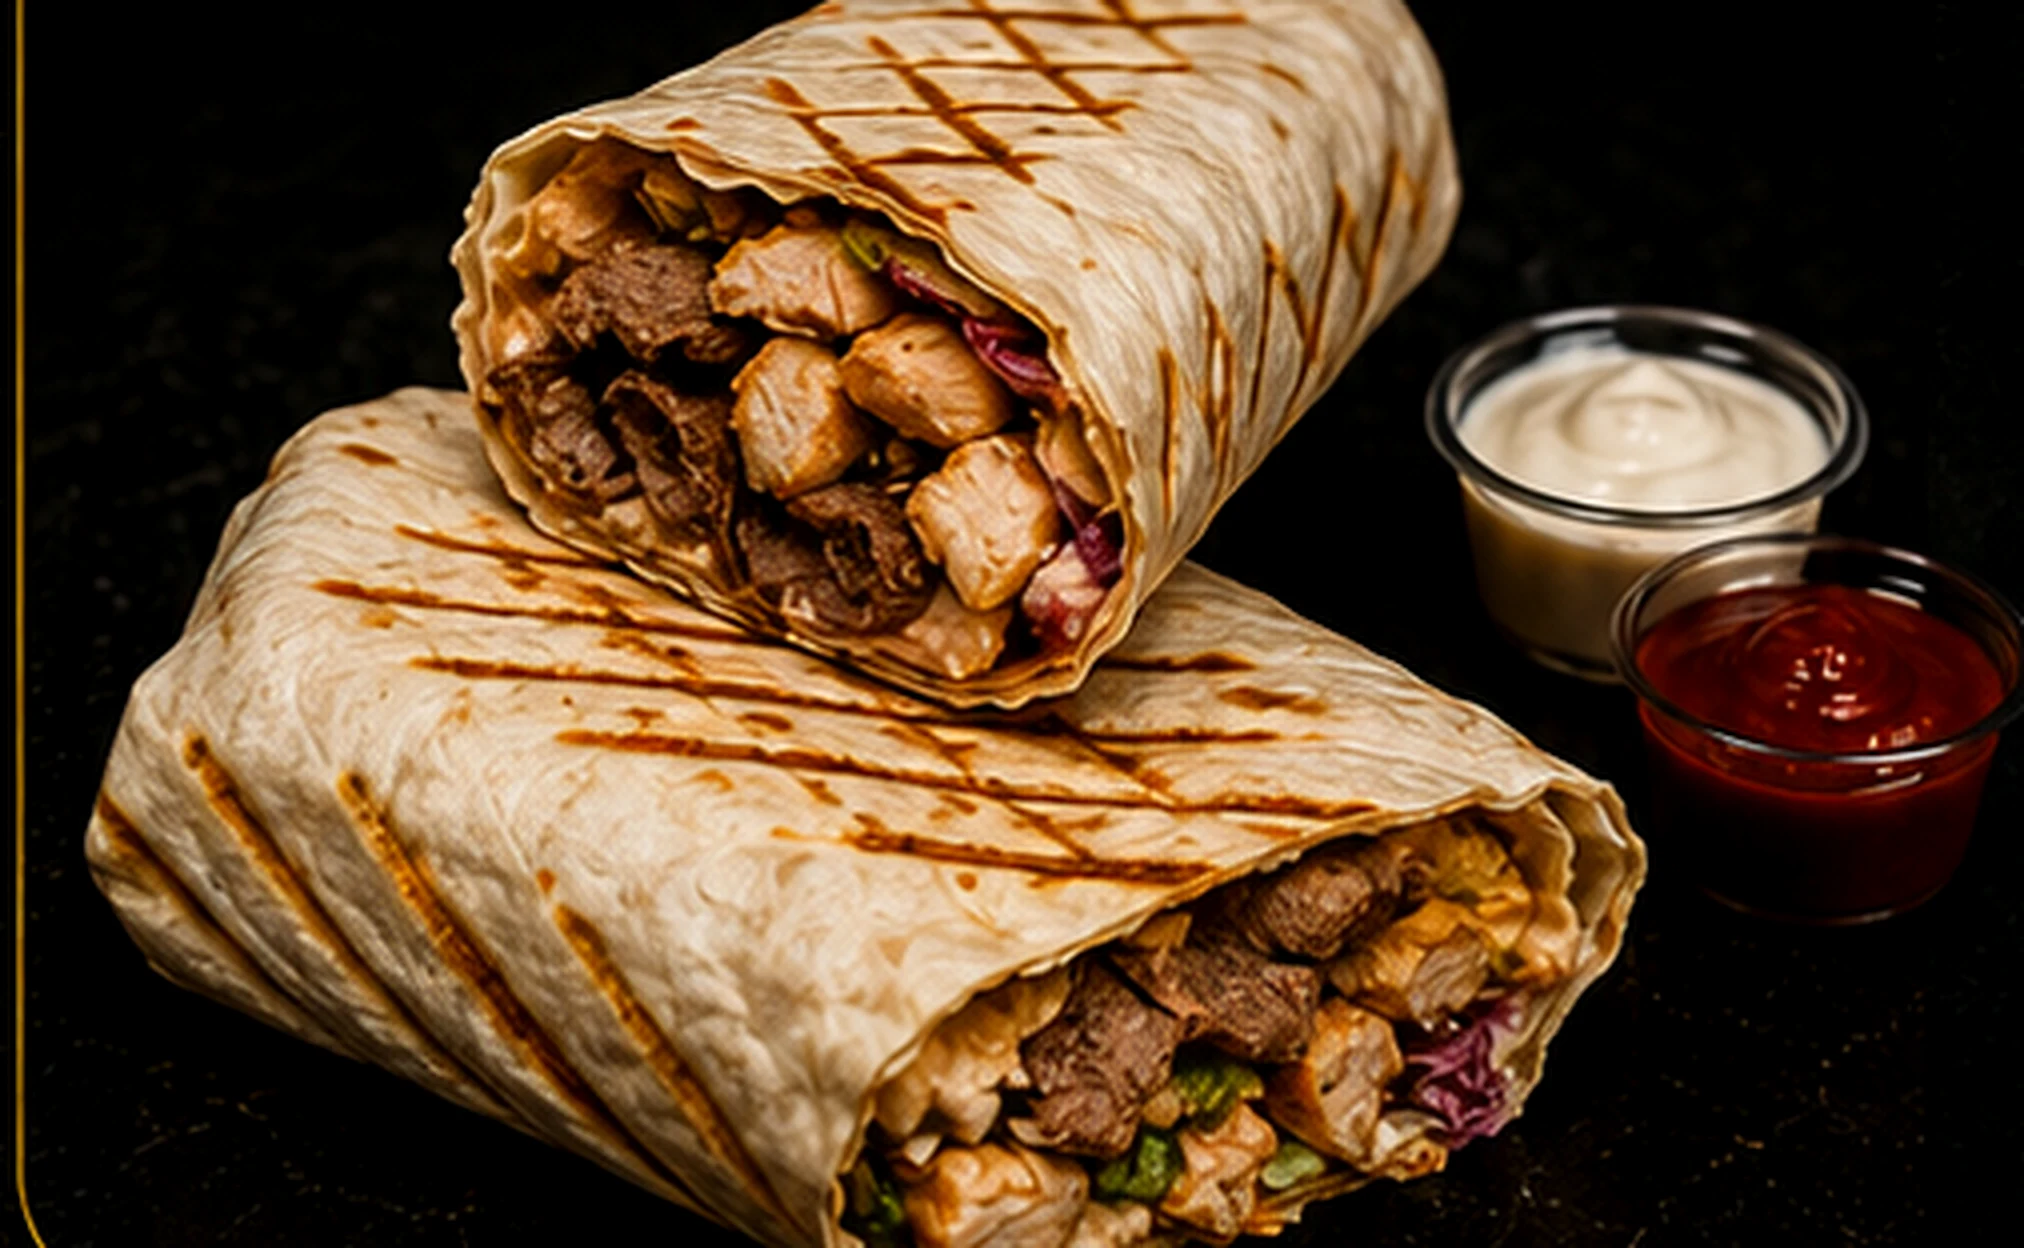
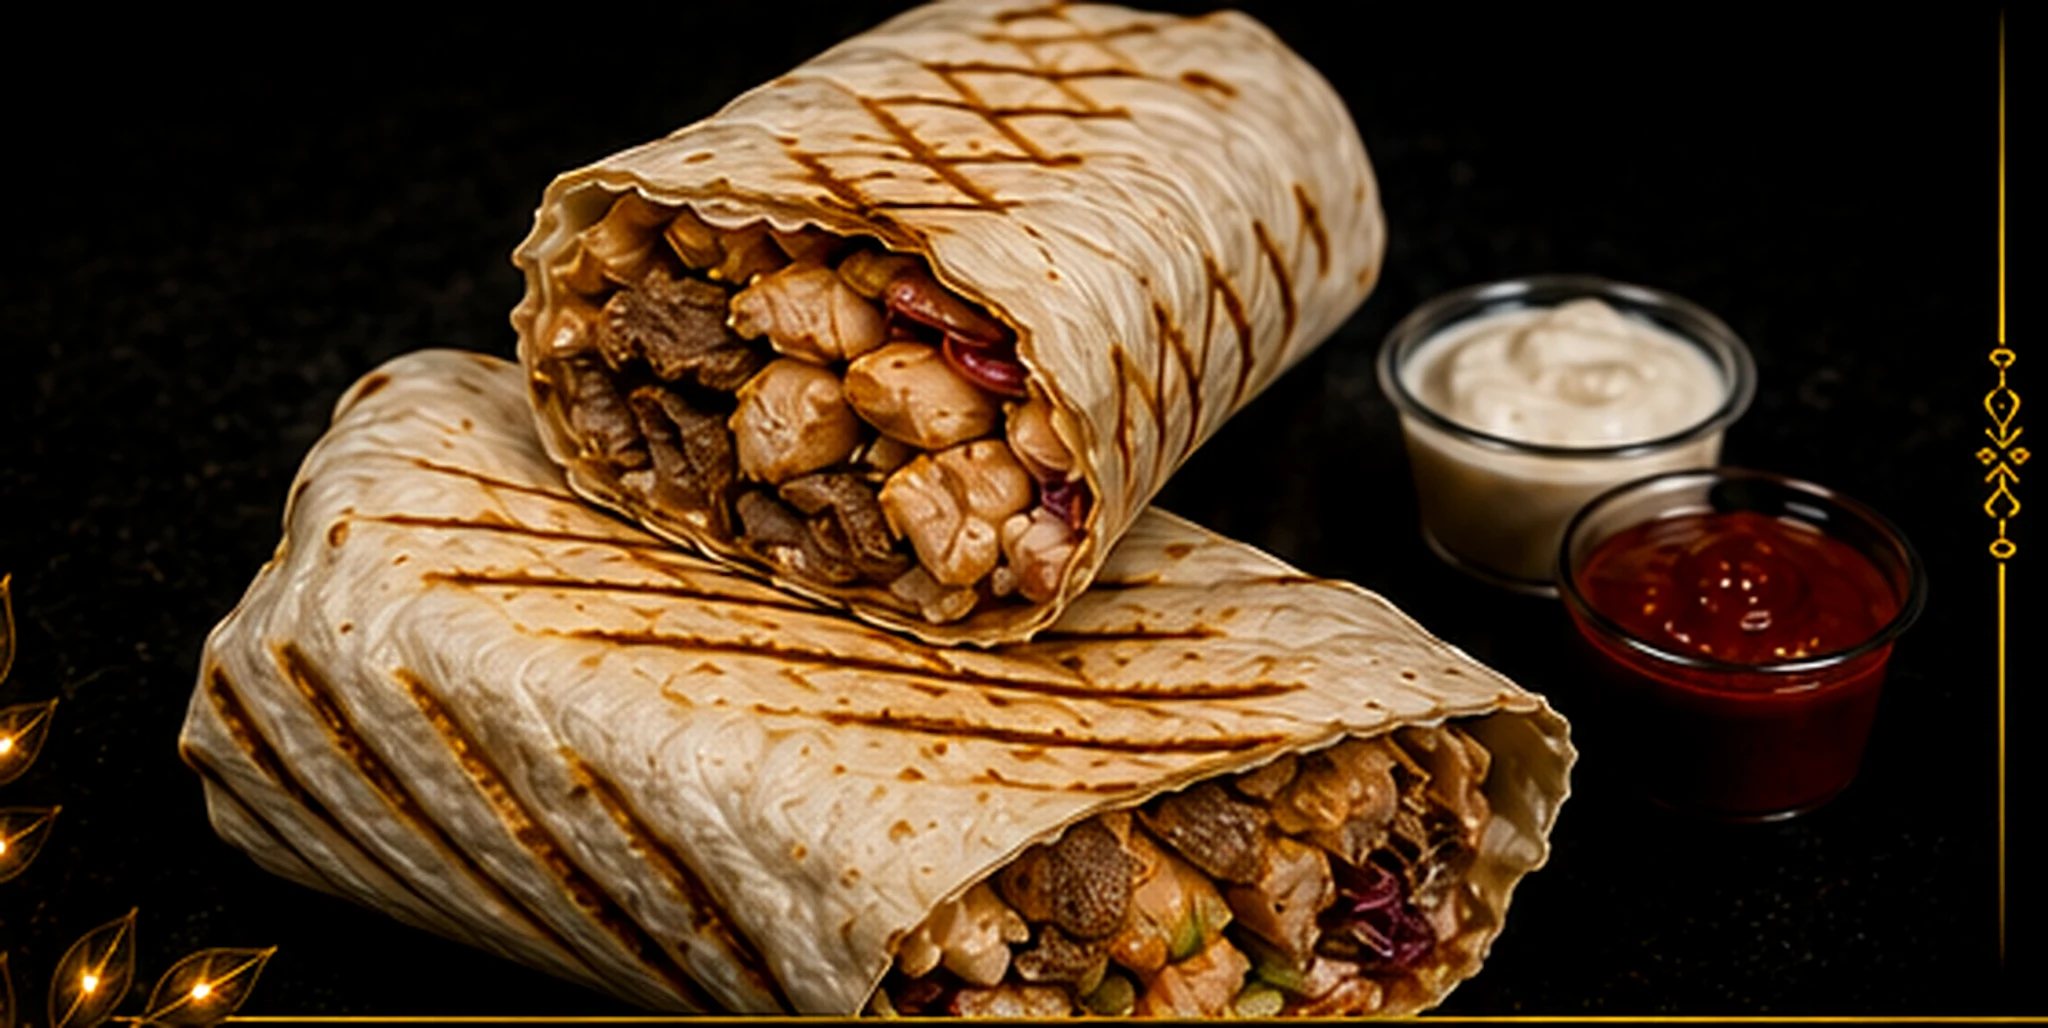
Update shawarma menu images

diff --git a/script.js b/script.js
@@ -126,19 +126,17 @@ const sectionPages = {
     alt: "EDEN burgers page"
   },
   Shawarma: {
-    src: "assets/shawarma-ready-4k.webp?v=20260614-shawarma",
+    src: "assets/shawarma-ready-4k.webp?v=20260614-shawarma2",
     alt: "EDEN shawarma page"
   },
   "Shawarma Lavash": {
-    src: "assets/shawarma-lavash-page-4k.webp?v=20260614-shawarma",
+    src: "assets/shawarma-lavash-page-4k.webp?v=20260614-shawarma2",
     alt: "EDEN shawarma lavash page",
-    aspect: "phone-tall",
     needsBackOverlay: true
   },
   "Shawarma Pita Bread": {
-    src: "assets/shawarma-pita-page-4k.webp?v=20260614-shawarma",
+    src: "assets/shawarma-pita-page-4k.webp?v=20260614-shawarma2",
     alt: "EDEN shawarma pita bread page",
-    aspect: "phone-tall",
     needsBackOverlay: true
   },
   Specials: {
@@ -226,13 +224,13 @@ const sectionLinks = {
       name: "Shawarma Lavash",
       target: "Shawarma Lavash",
       image: "assets/shawarma-lavash-page-4k.webp",
-      hotspot: { x: 2.6, y: 32.6, w: 94.8, h: 31.6 }
+      hotspot: { x: 3, y: 34.4, w: 94, h: 30.2 }
     },
     {
       name: "Shawarma Pita Bread",
       target: "Shawarma Pita Bread",
       image: "assets/shawarma-pita-page-4k.webp",
-      hotspot: { x: 2.6, y: 66.4, w: 94.8, h: 30.8 }
+      hotspot: { x: 3, y: 67.2, w: 94, h: 29.8 }
     }
   ]
 };
@@ -436,7 +434,7 @@ const itemGroups = {
       image: "assets/detail-shawarma-lavash-chicken-4k.webp",
       description: "Juicy chicken shawarma wrapped in toasted lavash with crisp vegetables and Eden sauces.",
       ingredients: ["chicken shawarma", "lavash", "fresh vegetables", "pickles", "garlic sauce", "Eden sauce"],
-      hotspot: { x: 5.4, y: 28.3, w: 89.6, h: 20.4 }
+      hotspot: { x: 3.4, y: 33.2, w: 93.2, h: 19.8 }
     },
     {
       id: "beef-lamb-shawarma-lavash",
@@ -445,7 +443,7 @@ const itemGroups = {
       image: "assets/detail-shawarma-lavash-beef-lamb-4k.webp",
       description: "Tender beef and lamb shawarma folded into warm lavash with vegetables and rich house sauces.",
       ingredients: ["beef", "lamb", "lavash", "fresh vegetables", "pickles", "garlic sauce", "Eden sauce"],
-      hotspot: { x: 5.4, y: 51.1, w: 89.6, h: 20.4 }
+      hotspot: { x: 3.4, y: 55.4, w: 93.2, h: 19.8 }
     },
     {
       id: "mix-shawarma-lavash",
@@ -454,36 +452,36 @@ const itemGroups = {
       image: "assets/detail-shawarma-lavash-mix-4k.webp",
       description: "A mixed chicken, beef, and lamb shawarma wrapped in toasted lavash with vegetables and Eden sauces.",
       ingredients: ["chicken", "beef", "lamb", "lavash", "fresh vegetables", "pickles", "garlic sauce", "Eden sauce"],
-      hotspot: { x: 5.4, y: 73.7, w: 89.6, h: 20.4 }
+      hotspot: { x: 3.4, y: 77.7, w: 93.2, h: 19.8 }
     }
   ],
   "Shawarma Pita Bread": [
     {
       id: "chicken-shawarma-pita",
       name: "Chicken Shawarma Pita Bread",
-      price: "$10.99",
+      price: "$11.99",
       image: "assets/detail-shawarma-pita-chicken-4k.webp",
       description: "Juicy chicken shawarma served in soft pita bread with crisp vegetables and flavorful sauces.",
       ingredients: ["chicken shawarma", "pita bread", "fresh vegetables", "pickles", "garlic sauce", "Eden sauce"],
-      hotspot: { x: 3.6, y: 28.5, w: 92.8, h: 20.2 }
+      hotspot: { x: 3.4, y: 32.3, w: 93.2, h: 20 }
     },
     {
       id: "beef-lamb-shawarma-pita",
       name: "Beef & Lamb Shawarma Pita Bread",
-      price: "$11.99",
+      price: "$12.99",
       image: "assets/detail-shawarma-pita-beef-lamb-4k.webp",
       description: "Tender beef and lamb shawarma tucked into warm pita with crisp vegetables and house sauce.",
       ingredients: ["beef", "lamb", "pita bread", "fresh vegetables", "pickles", "garlic sauce", "Eden sauce"],
-      hotspot: { x: 3.6, y: 51.1, w: 92.8, h: 20.2 }
+      hotspot: { x: 3.4, y: 55, w: 93.2, h: 20 }
     },
     {
       id: "mix-shawarma-pita",
       name: "Mix Shawarma Pita Bread",
-      price: "$11.99",
+      price: "$12.99",
       image: "assets/detail-shawarma-pita-mix-4k.webp",
       description: "A mixed chicken, beef, and lamb shawarma in soft pita bread with vegetables and Eden sauces.",
       ingredients: ["chicken", "beef", "lamb", "pita bread", "fresh vegetables", "pickles", "garlic sauce", "Eden sauce"],
-      hotspot: { x: 3.6, y: 73.7, w: 92.8, h: 20.2 }
+      hotspot: { x: 3.4, y: 77.6, w: 93.2, h: 20 }
     }
   ],
   "Heavy Blend": [

diff --git a/styles.css b/styles.css
@@ -195,11 +195,6 @@ button {
   aspect-ratio: 3 / 4;
 }
 
-.ipad-shell[data-section-aspect="phone-tall"] .section-screen {
-  width: min(100vw - 20px, calc((100dvh - 20px) * 0.46258), 853px);
-  aspect-ratio: 853 / 1844;
-}
-
 .section-screen {
   z-index: 1;
   width: min(100vw - 20px, calc((100dvh - 20px) * 0.6666667), 1024px);
@@ -2318,12 +2313,6 @@ button {
   .ipad-shell[data-section-aspect="four-three"][data-screen="section"] .basket-widget {
     width: min(calc(100vw - 12px), calc((100dvh - 12px) * 0.75));
     aspect-ratio: 3 / 4;
-  }
-
-  .ipad-shell[data-section-aspect="phone-tall"] .section-screen,
-  .ipad-shell[data-section-aspect="phone-tall"][data-screen="section"] .basket-widget {
-    width: min(calc(100vw - 12px), calc((100dvh - 12px) * 0.46258));
-    aspect-ratio: 853 / 1844;
   }
 
   .item-detail-screen,
